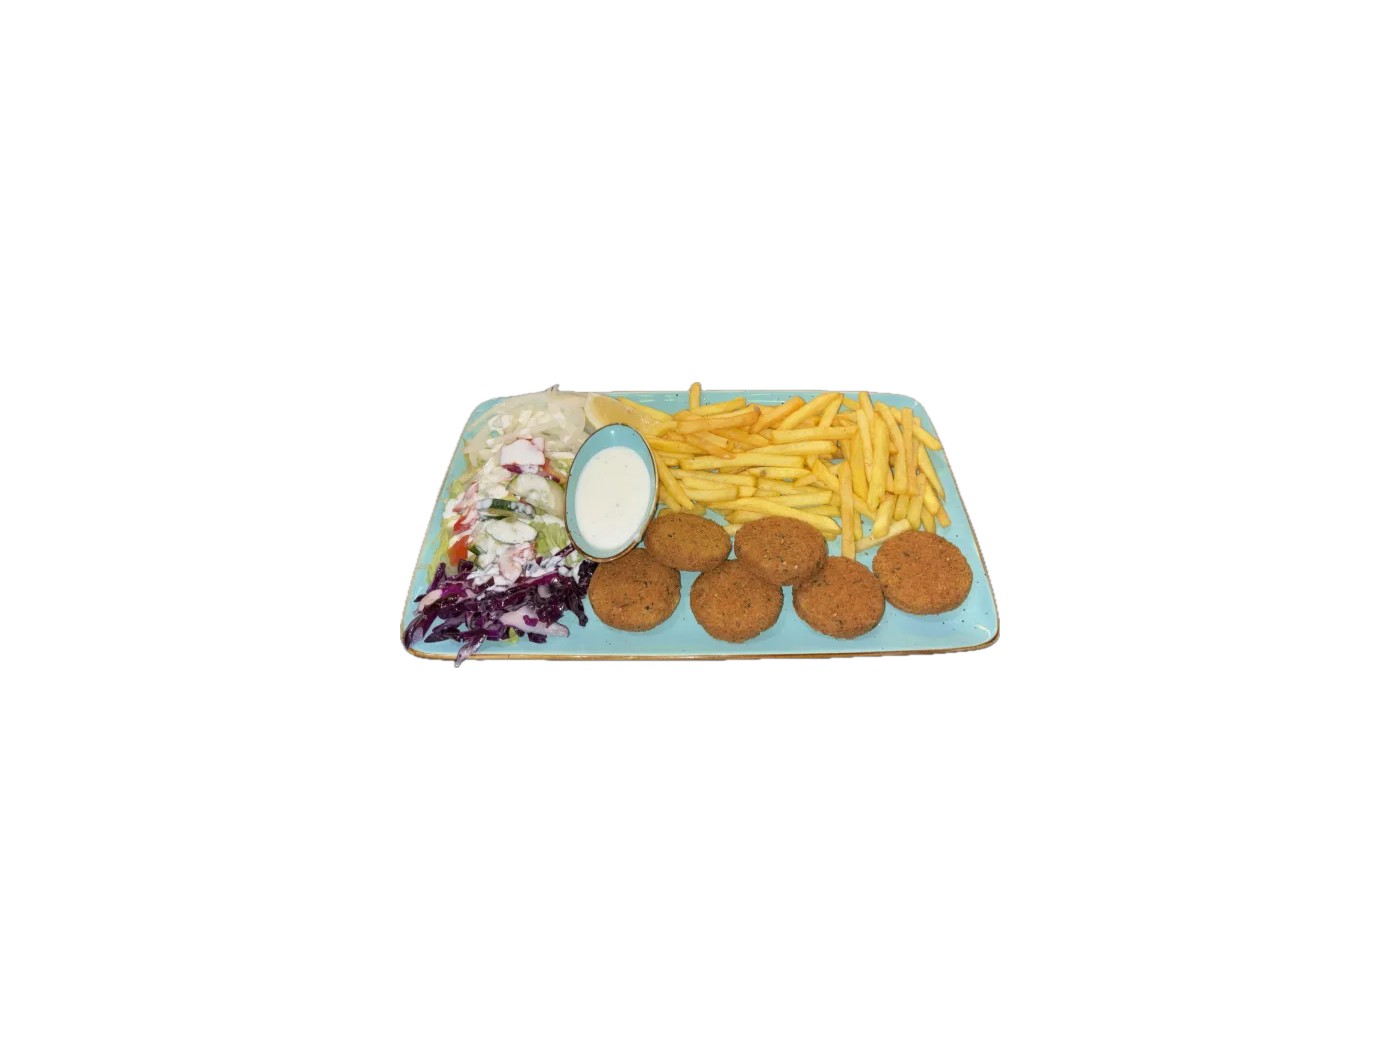
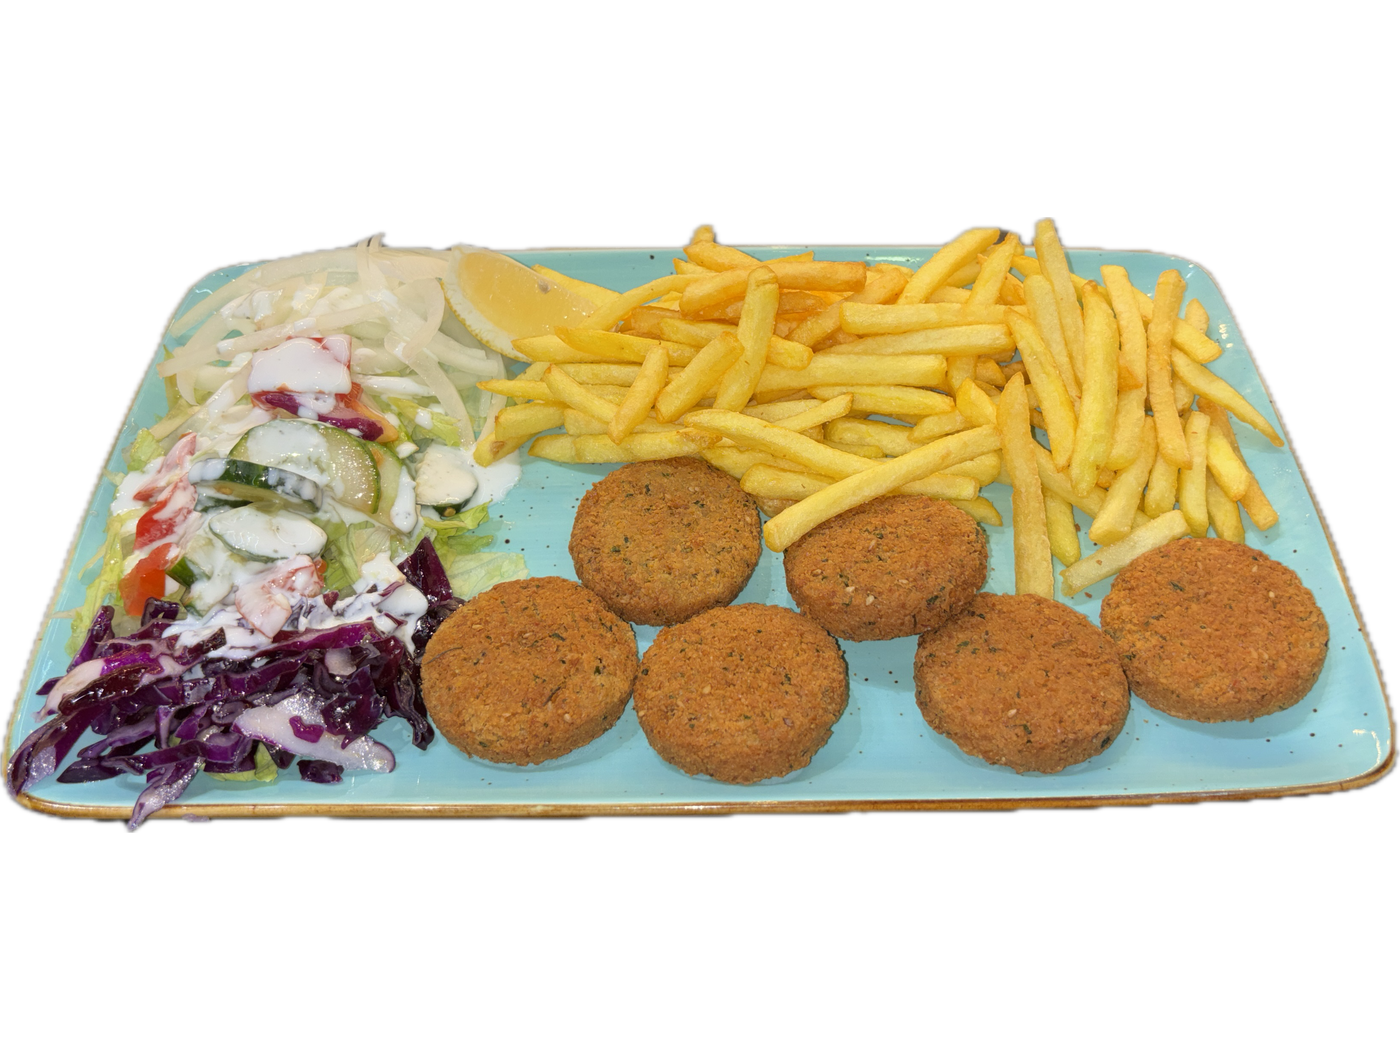
Board2: Neue Restaurant-Fotos für 5 Gerichte + Cache-Buster v20261017c
Döner Box, Falafel Sandwich, Falafel Teller, Seitan Teller, Seitan Sandwich
alle auf 1400x1050 skaliert, RGBA transparent.

diff --git a/board2.html b/board2.html
@@ -226,7 +226,7 @@ body{font-family:"Raleway",system-ui,sans-serif;color:#FFF5E0;cursor:none;
 </div>
 <div class="vignette"></div>
 <script>
-const v="?v="+"20261017b";
+const v="?v="+"20261017c";
 const SLIDES=[
   {
     title:"Döner &amp; Mehr",
